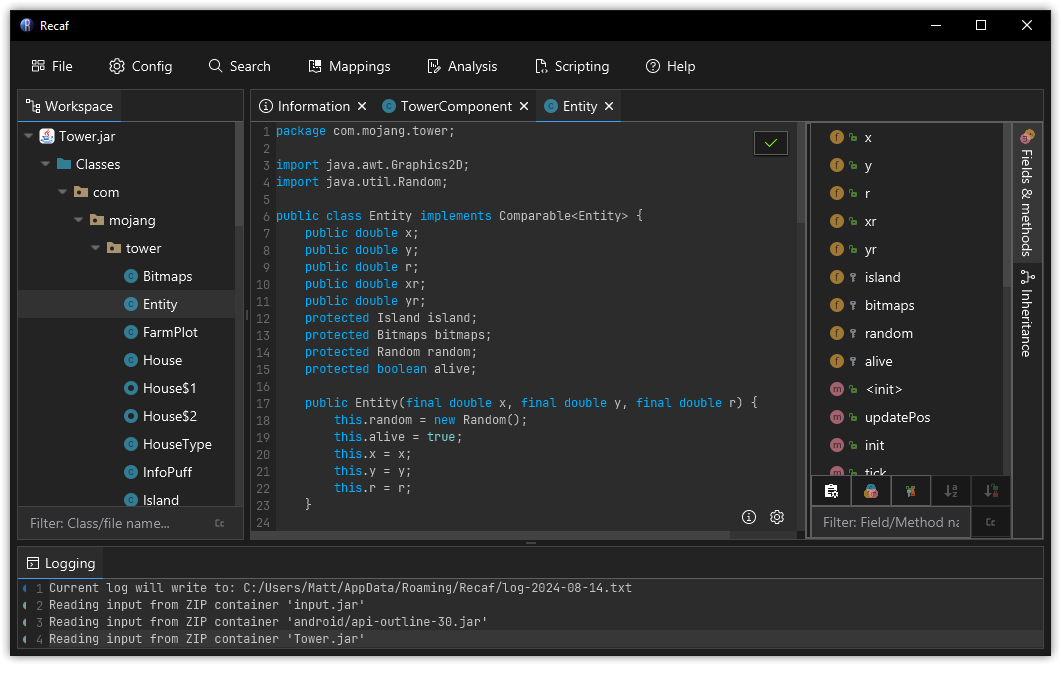
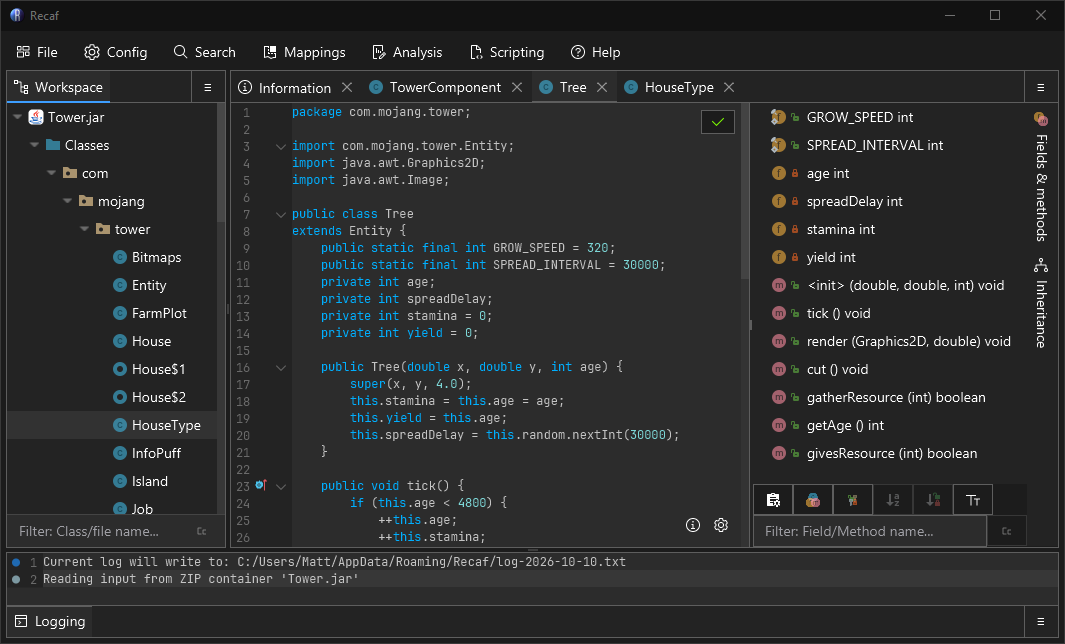
Restructure readme, add more image examples

Changed region(s): [[0.0, 0.0, 1.0, 1.0], [0.591, 0.4037, 0.6221, 0.4348]]

diff --git a/README.md b/README.md
@@ -1,54 +1,94 @@
 # Recaf [![Discord](https://dcbadge.limes.pink/api/server/https://discord.gg/Bya5HaA?style=flat)](https://discord.gg/Bya5HaA) [![codecov](https://codecov.io/gh/Col-E/Recaf/graph/badge.svg?token=N8GslpI1lL)](https://codecov.io/gh/Col-E/Recaf)  ![downloads](https://img.shields.io/github/downloads/Col-E/Recaf/total.svg) [![Contributions welcome](https://img.shields.io/badge/contributions-welcome-brightgreen.svg?style=flat)](CONTRIBUTING.md)
 
-![Recaf 4x UI](recaf.png)
+![Recaf 4.X user interface](recaf.png)
 
-An easy to use modern Java bytecode editor that abstracts away the complexities of Java programs.
+A versatile and easy to use Java and Android bytecode editor. Recaf makes working with compiled Java applications easier. Explore unfamiliar code, analyze obfuscated applications, modify classes without their original source, and export your changes, all through a familiar IDE-like interface.
 
 ## Download
 
 - [Launcher](https://github.com/Col-E/Recaf-Launcher)
-  - Usage & instructions found on the launcher repo
+  - Pulls snapshot releases from GitHub CI runs, ensuring you have the most up-to-date releases.
+  - Usage & instructions for the launcher can be found on the launcher repo.
 - [Snapshot releases](https://github.com/Col-E/Recaf-Launcher/blob/master/MANUAL.md)
-  - See [CI actions](https://github.com/Col-E/Recaf/actions/workflows/build.yml) for release artifacts
-- [Independent releases](https://github.com/Col-E/Recaf/releases) _(None for 4X currently)_
+  - See [CI actions](https://github.com/Col-E/Recaf/actions/workflows/build.yml) for release artifacts.
+- [Independent releases](https://github.com/Col-E/Recaf/releases)
 
 ## Features
 
-- Edit Java bytecode with ease from a high or low level _(minus the annoying parts)_
-    - Editor features within Recaf abstract away complex details of compiled Java applications like:
-        - The constant pool
-        - Stack frame calculation
-        - Using wide instructions when needed
-        - And more!
-- Easy to use navigable interface with context-sensitive actions
-- Support for standard Java _and_ Android applications
-- Multiple decompilers to switch between, with all of their parameters made fully configurable
-- Built in compiler to allow recompiling decompiled classes, even if some referenced classes are missing *(When supported, support may vary depending on code complexity and obfuscation)*
-- A bytecode assembler with a simple syntax, and supporting tooling
-    - See the state of local variables and stack values at any point in methods
-    - Access variables by names instead of indices for clearer disassembled code
-    - Convert snippets of Java source code to bytecode sequences automatically
-- Searching for a variety of different content: Strings/numeric constants, classes and member references, instruction patterns
-- Tools for deobfuscating obfuscated code
-    - Specially crafted class files with the intent of crashing reverse engineering tools are automatically patched when opened in Recaf
-    - Specially crafted jar/zip files are read as the JVM does, bypassing sneaky tricks that can trick reverse engineering tools into showing the wrong data
-    - Support for automatically renaming obfuscated classes and their members
-    - Support for manually renaming classes and their members *_(And exporting these mappings to a variety of mapping formats for use in other tools)_*
-    - Bytecode transformers for simplifying common obfuscation strategies
-- Attach to running Java process with instrumentation capabilities
-- And much more
+<details>
+<summary><strong>Decompile and explore Java applications</strong></summary>
+Navigate compiled applications using a familiar, IDE-like interface.
+
+- Switch between multiple configurable Java decompilers: CFR, Procyon, Fernflower
+    - Each decompiler can be fully configured via the config menu. If you're lost, just use the config window's search bar and type in the name of the decompiler you want to tweak.
+- Search for strings, constants, class references, methods, and bytecode instruction patterns.
+- Navigate thorugh Java applications like you would with an IDE.
+    - Control + left click or press F3 to jump to referenced classes, fields, and methods.
+    - Left/Right + Alt to jump between recently visited locations.
+    - Control + G to quickly find classes, members, or file content in an opened application.
+    - Everything else is accessible via context-sensitive right click menus.
+        - Click on a class? Get shown operations for the class.
+        - Click on a method? Get shown operations for the method.
+- Both Java and Android applications are treated the same.
+</details>
+
+<details>
+<summary><strong>Edit Java bytecode with ease from a high or low level</strong></summary>
+![Edit via the decompiler](docs/images/edit-source-save.gif)
+
+Make simple edits by just plainly editing decompiled Java source code, save your changes, then export the modified application.
+
+- Missing dependency / library code in the application JAR? Recaf can fill in the blanks for you by analyzing the existing code and generating library skeleton code. The compiler can't tell the difference.
+- Encountering issues with decompilation quality making source edits too difficult? Use the bytecode assembler!
+
+![Edit via the assembler](docs/images/edit-bytecode-save.gif)
+
+Recaf's bytecode assembler makes changing low level class files easy. Complex aspects of the file format are abstracted away from you. Helpful tools can assist you even if you're a total bytecode noob. 
+
+- Assembler features:
+    - Variable names used in place of variable slots, making code easier to read and reason through.
+    - Immediate feedback on syntax errors, improper usage of instructions, etc.
+    - Visualize control flow by clicking on a label to see where control-flow instructions lead to.
+- Assembler tools:
+    - Analysis: See what values are on the stack and in local variables at any point in the method. Click a line and it updates to show what happens at that point in the code.
+    - Declared Variables: A table of all variables, how they are used, and single-click navigation to jump between those usages.
+    - Java to Bytecode: Write simple Java source code on the left hand side, see the equivalent Java bytecode on the right hand side. You can easily generate complex bytecode from source code, then copy and paste it into the assembler wherever you want.
+    - Snippets: Find yourself writing the same debug `println` call all the time? Save it as a snippet and access it any time. Copy and paste ready debug prints are the lifeblood of any programmer desparately debugging some third party code whose authors went the way of the dinosaur.
+    </details>
+
+<details>
+<summary><strong>Analyze and deobfuscate protected applications</strong></summary>
+Recaf offers a host of tools to make working with obfuscated code as easy as possible. Identifier renaming, numeric and string constant encryption, and even control flow obfuscation can all be defeated with ease.
+
+![Obfuscated control flow and string encryption removed, before and after](docs/images/deobfuscation-sample-flow-strings.gif)
+
+- Powerful deobfuscation tools:
+    - Generalized Java bytecode transformers for opaque constants, predicates, and more. Pick a set of transformers in the deobfuscation window, preview your changes, and apply to the application when you're satisfied with the results. 
+    - Support for mass-renaming obfuscated classes and their members via pattern-driven mapping generators.
+    - Want more control over renaming? You can manually rename classes and their members too. You can even export the mappings to a variety of formats for use in other tools when you're done.
+
+- Silent backround measures:
+    - Specially crafted class files with the intent of crashing reverse engineering tools are automatically patched when opened in Recaf. If you want to control the level of detail for automated patches to be more or less thorough you can change the patch mode in the config.
+    - Specially crafted jar/zip files are read as the JVM does, bypassing sneaky tricks that can trick reverse engineering tools into showing the wrong data. Try comparing [some sample jars](https://recaf.coley.software/user/obfuscation/zip.html) to other tools and you can see how other tools get confused where Recaf does not.
+    </details>
+
+<details>
+<summary><strong>Automate analysis and reverse engineering workflows with scripts and plugins</strong></summary>
+Recaf exposes all of its functionality through modular API's. You can write a script to automate a workflow then run it again and again via the CLI.
+
+- For scripts, see [Scripts](https://recaf.coley.software/dev/plugins-and-scripts/scripts.html) in the documentation.
+- For CLI usage, see [Running](https://recaf.coley.software/dev/arch/running.html)
+- The gist, make the script then use `java -jar recaf.jar --input <app> --script <script.java>`
+- Looking to automate workflows with AI? Use the CLI's `--headless` and the [MCP plugin](https://github.com/Recaf-Plugins/Recaf-MCP) to give agents access to all of Recaf's capabilities.
+</details>
 
 A complete list of features can be found in the [user documentation](https://recaf.coley.software/user/index.html).
 
-## Scripting & Plugins
+## Documentation
 
-Recaf exposes almost all of its functionality through modular API's. Automating behaviors can be done easily with scripts, or with plugins for more complex situations. Additional features can also be added via plugins, which can register hooks in API's that offer them.
-
-To create your own script or plugin, see the [developer documentation](https://recaf.coley.software/dev/index.html), specifically the _"plugins & scripts"_ section.
-
-## Command Line
-
-Recaf can run as a command line application, which can be especially useful when paired with scripts provided at startup. You can see all the current launch arguments by passing `--help` as an application argument.
+- [User guide](https://recaf.coley.software/user/index.html): Covers functionality, configuration, and usage.
+- [Developer guide](https://recaf.coley.software/dev/index.html): Covers architecture, scripting, plugins, and APIs.
+- [Discord](https://discord.gg/Bya5HaA): Community discussion, support, and shitposting.
 
 ## Development Setup
 
